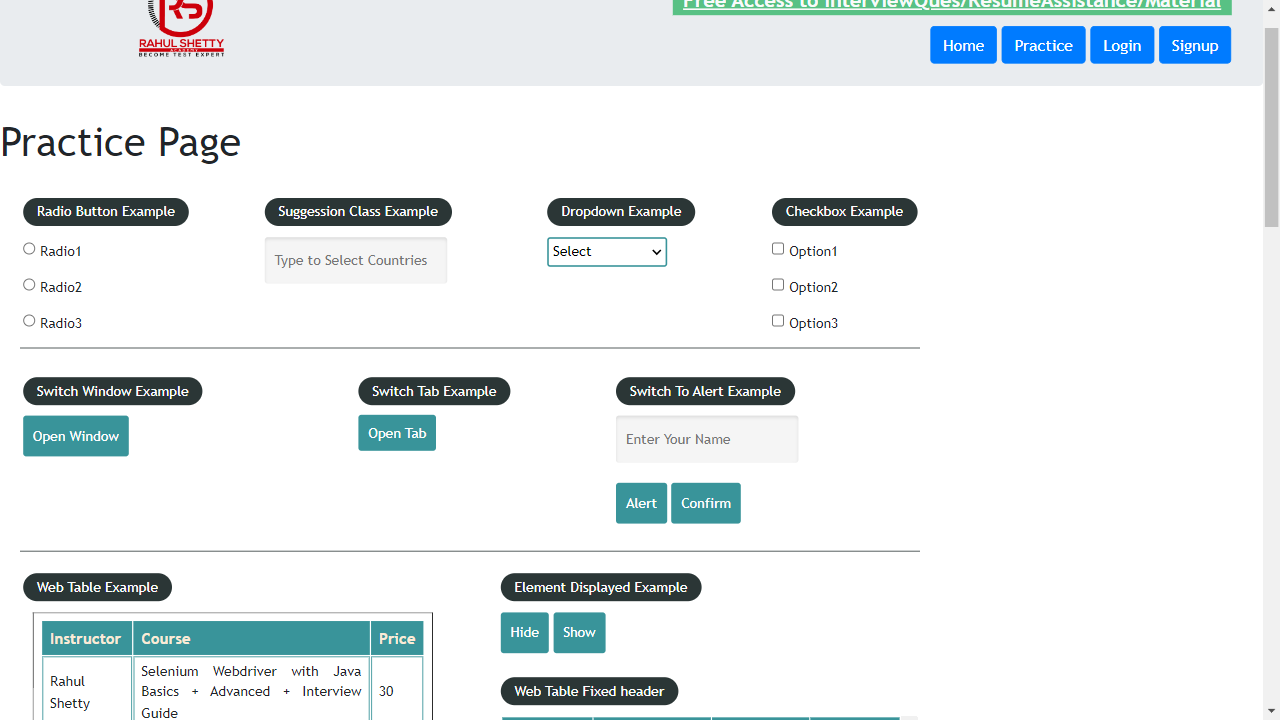
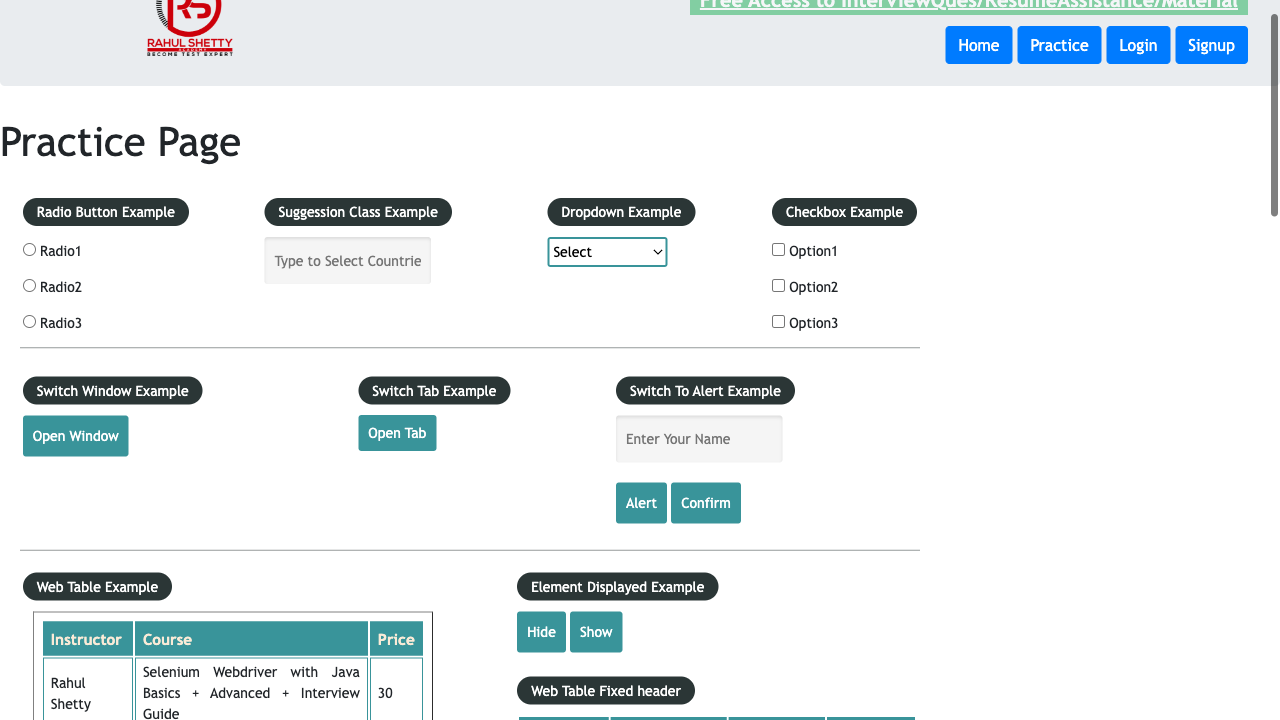
added test retries,serial and parallel execution and tagging test code

diff --git a/tests/MoreValidations.spec.js b/tests/MoreValidations.spec.js
@@ -1,6 +1,8 @@
 const { test, expect } = require("@playwright/test");
 
-test("More Validations", async ({ page }) => {
+//test.describe.configure({mode:'parallel'})
+//test.describe.configure({mode:'serial'})
+test(" @Web More Validations", async ({ page }) => {
   await page.goto("https://rahulshettyacademy.com/AutomationPractice/");
 
   //await page.goto('https://www.google.com')
@@ -60,7 +62,7 @@ test("Screenshot and Visual comparison", async ({ page }) => {
   await expect(page.locator("#displayed-text")).toBeHidden();
 });
 
-test.only("Visual Testing", async ({ page }) => {
+test.skip("Visual Testing", async ({ page }) => {
   await page.goto("https://www.google.com");
   expect(await page.screenshot()).toMatchSnapshot("landing.png");
 });

diff --git a/playwright.config1.js b/playwright.config1.js
@@ -7,6 +7,8 @@ const config = {
   testDir: "./tests",
   //Maximum time out one test can run for.
   timeout: 30 * 1000,
+ // retries:1,
+  //workers:5,
 
   //Assertion
   expect: {
@@ -36,7 +38,7 @@ projects:[
       //trace:'retain-on-failure' --> only failed scenario screenshot will be captured
       trace:'on',
       //viewport helps to open browser in desired width and height
-      viewport:{width:720,height:720},
+     // viewport:{width:720,height:720},
 
      //run testcases on iphone device
     // ...devices['iPhone 13 Pro Max']

diff --git a/tests/ClientAppPO.spec.js b/tests/ClientAppPO.spec.js
@@ -4,7 +4,7 @@ const { POManager } = require('../pageobjects/POManager')
 const dataset = JSON.parse(JSON.stringify(require('../utils/placeorder.json')))
 
 for (const data of dataset) {
-  test(`Client App Login for ${data.productName}`, async ({ page }) => {
+  test(` @Web Client App Login for ${data.productName}`, async ({ page }) => {
     const poManager = new POManager(page)
     const loginPage = poManager.getLoginPage()
     const dashboardPage = poManager.getDashboardPage()

diff --git a/tests/UIBasicstest.spec.js b/tests/UIBasicstest.spec.js
@@ -1,6 +1,6 @@
 const { test, expect } = require("@playwright/test");
 
-test("Browser Context Playwright test", async ({ browser }) => {
+test(" @Web Browser Context Playwright test", async ({ browser }) => {
   //to open fresh browser without plugins we use Context i.e. new instance of browser
   const context = await browser.newContext();
   const page = await context.newPage();

diff --git a/tests/NetworkTest.spec.js b/tests/NetworkTest.spec.js
@@ -1,5 +1,5 @@
 const { test, expect, request } = require("@playwright/test");
-const { APIUtils } = require("./utils/APIUtils");
+const { APIUtils } = require("../utils/APIUtils");
 
 const loginPayload = {
   userEmail: "kjamadar26@gmail.com",

diff --git a/tests/WebAPIPart1.spec.js b/tests/WebAPIPart1.spec.js
@@ -1,5 +1,5 @@
 const { test, expect, request } = require("@playwright/test");
-const { APIUtils } = require("./utils/APIUtils");
+const { APIUtils } = require("../utils/APIUtils");
 
 const loginPayload = {
   userEmail: "kjamadar26@gmail.com",

diff --git a/tests/NetworkTest2.spec.js b/tests/NetworkTest2.spec.js
@@ -1,5 +1,5 @@
 const { test, expect, request } = require("@playwright/test");
-const { APIUtils } = require("./utils/APIUtils");
+const { APIUtils } = require("../utils/APIUtils");
 
 const loginPayload = {
   userEmail: "anshika@gmail.com",
